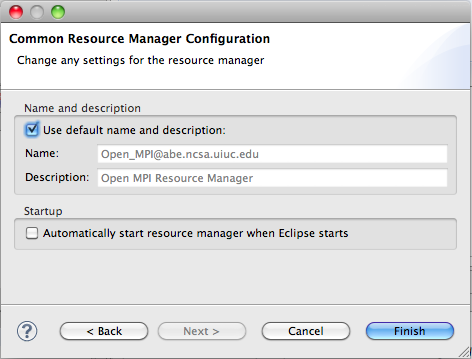
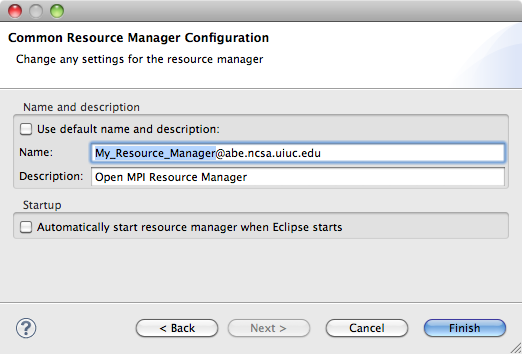
Doc updates.

diff --git a/core/org.eclipse.ptp.doc.user/html/02resMgrSetup.html b/core/org.eclipse.ptp.doc.user/html/02resMgrSetup.html
@@ -43,7 +43,7 @@ resource manager is the same.</p>
 <h2 id="list">List of PTP-Supported Resource Managers</h2>
 <p>
 <ul>
-<li><a href="02resMgrGenericRemoteLaunch.html">Remote Launch</a></li>
+<li><a href="02resMgrRemoteLaunch.html">Remote Launch</a></li>
 <li>Open MPI - covered in examples below
 <li><a href="PLUGINS_ROOT/org.eclipse.ptp.rm.ibm.ll.help/html/IBMLLMainHelp.html">IBM
 		Loadleveler</a>
@@ -186,20 +186,26 @@ To configure the simple case of a local resource manager, for example where you 
 on the type of resource manager that was initially selected. In this section we will show how to configure an <b>Open MPI</b> resource manager.
 Please refer to the IBM PE, IBM LoadLeveler,
 PBS, or SLURM resource manager documentation for information on these systems.</p>
+<ol>
+<li>
+<p>
 In this case, the <b>Open MPI tool configuration</b> dialog is shown. 
 You will not normally need to change this information. Just leave the <b>Open MPI version</b> set to <b>Auto Detect</b>, 
 and default values will automatically loaded into the fields.</p>
+<p><br></p>
 <p><img src="images/02-RM-OpenMPI-Configuration.png">r</p>
-<ol>
-<li><p>If you wish to specify the commands for the Open MPI environment, or add extra arguments, 
-select a specific Open MPI version and uncheck the <b>Use default settings</b> checkbox.</p>
 <p><br></p></li>
-<ol>
-<li><p><b>Launch command</b>: A command line executed to launch the parallel application with Open MPI.</p><p><br></p></li>
-<li><p><b>Debug command</b>: A command line executed to use Open MPI to launch a debug session for the parallel application.</p><p><br></p></li>
-<li><p><b>Discover command</b>: A command line executed when the Resource Manager is started, to collect information about the Open MPI environment..</p><p><br></p></li>
-<li><p><b>Path to installation</b>: If not empty, then all commands are prefixed with this path.</p><p><br></p></li>
-</ol>
+<li><p>If you wish to modify the defaul configuration (for experts only!), select a specific Open MPI version and 
+uncheck the <b>Use default settings</b> checkbox.</p>
+<p><br></p></li>
+<dl>
+<dt><b>Launch command</b></dt>
+<dd>A command line executed to launch the parallel application with Open MPI</p></dd>
+<dt><b>Debug command</b></dt>
+<dd>A command line executed to use Open MPI to launch a debug session for the parallel application</p></dd>
+<dt><b>Discover command</b></dt>
+<dd>A command line executed when the Resource Manager is started, to collect information about the Open MPI environment</p></dd>
+</dl>
 <p>Only a single command is allowed on each command field.
 Several place holders (macros) are allowed, the most relevant are:</p>
 <ul>
@@ -215,28 +221,34 @@ would enter <code>/usr/local/openmpi-1.3.4/bin</code> for the location.</p></li>
 <li><p>Select <b>Next &gt;</b></p></li>
 </ol>
 
-<h2 id="name">Step 4: Naming the resource manager configuration</h2>
-<p>The next dialog is <b>Common Resource Manager Configuration</b> which provides an opportunity
-to change how the resource manager is displayed.</p>
-<p><img src="images/02ChooseResMgrNameAndDesc.png"></p>
+<h2 id="name">Step 4: Final resource manager configuration</h2>
+<p>The final wizard page is the <b>Common Resource Manager Configuration</b>, which provides an opportunity
+to change a few remaining parameters about the resource manager.</p>
 <ol>
 <li><p>If you wish to change the name or description, uncheck the <b>Use default name and 
-description</b> checkbox.</p><p><br></p></li>
-<ol>
+description</b> checkbox.</p>
+<p><br></p>
+<ol type="a">
 <li><p>Enter a new name in the <b>Name</b> field. Anything can be entered.</p><p><br></p></li>
 <li>
   <p>Enter a new description in the <b>Description</b> field. Anything can be entered.</p><p><br></p>
 </li>
 </ol>
+<p><img src="images/02ChooseResMgrNameAndDesc.png"></p>
+<p><br></p>
+</li>
 <li><p>If you want the resource manager to start automatially when you start a new Eclipse session, check the <b>Automatically start resource
-manager when Eclipse starts</b> checkbox.</p><p><br></li>
-
+manager when Eclipse starts</b> checkbox.</p>
+<p><br></p>
+<p><img src="images/02ChangeResMgrStartup.png"></p>
+<p><br></p>
+</li>
+<li><p>Select <b>Finish</b>. The new Resource Manager should appear in the list of Resource
+Managers.</p>
+<p><br></p>
+<p><img src="images/02-RM-OpenMPI-View-List.png"></p>
+</li>
 </ol>
-
-<li><p>Select <b>Finish</b></p><p><br></p></li>
-</ol>
-The new Resource Manager should appear in the list of Resource
-Managers.<p><img src="images/02-RM-OpenMPI-View-List.png"></p>
 
 <h2 id="start">Step 6: Starting the resource manager</h2>
 <p></p>

diff --git a/core/org.eclipse.ptp.doc.user/html/02resMgrRemoteLaunch.html b/core/org.eclipse.ptp.doc.user/html/02resMgrRemoteLaunch.html
@@ -1,25 +1,25 @@
 <html>
 <head>
-<title>Generic Remote Launch Resource Manager</title>
+<title>Remote Launch Resource Manager</title>
 <link rel="stylesheet" type="text/css" href="help.css">
 <script type="text/javascript" src="thumb.js"> </script>
 </head>
 <body>
 
-<h1 id="top">Generic Remote Launch Resource Manager</h1>
+<h1 id="top">Remote Launch Resource Manager</h1>
 <p>
-When you create a new resource manager, you are able to select a number of different types
-(Open MPI, PBS, etc.) One of these types is "Generic Remote Launch." 
-This resource manager will simply run an executable on a remote machine using ssh. 
-Using this resource manager on a simple serial program is a good way to ensure that the basic ssh functionality is working correctly.
-<p>To create a Generic Remote Launch resource manager, open the 
+The "Remote Launch" resource manager can be used to run an arbitrary executable on the local or a remote machine. It doesn't matter if the executable
+is parallel program or not, however if you want to run a parallel program it is recommended you use one of the other resource manager types.
+<p>To create a Remote Launch resource manager, open the 
 Parallel Runtime Perspective and right-click in the Resource Managers view.
 <p>
 
-<p>Select the Generic Remote Launch type of Resource Manager and click Next.
-<p><img src="images/02GenericRemLaunch01.png">
-
-<p>&nbsp;
+<ol>
+<li>
+<p>Select the Remote Launch type of resource manager and click Next.</p>
+<p><img src="images/02GenericRemLaunch01.png"></p>
+<p><br></p>
+</li>
 <p>In the Connection Configuration Dialog, fill in the connection information including the 
 Remote Service Provider (e.g. Remote Tools) and the Connection name.
 If you have not already <a href="02resMgrSetup.html#remote">configured a connection,</a> 
